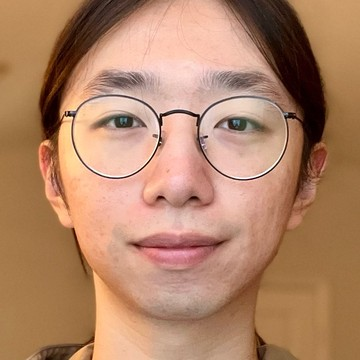
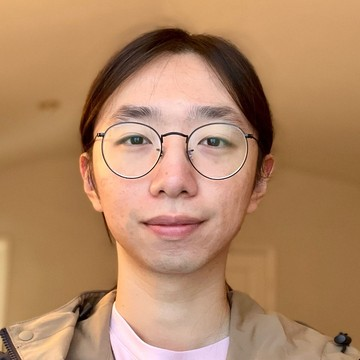
Update Junrui's photo

diff --git a/index.html b/index.html
@@ -105,7 +105,7 @@
 
   <h3>Alumni</h3>
   <ul class="people">
-    <li><a href="https://junrui-liu.github.io/"><img src="photos/junrui_liu.jpg" alt=""><b>Junrui Liu</b>Ph.D. 2021&ndash;2026<br><span class="now">Assistant Professor, Cal Poly</span></a></li>
+    <li><a href="https://junrui-liu.github.io/"><img src="photos/junrui_liu.jpg?v=2" alt=""><b>Junrui Liu</b>Ph.D. 2021&ndash;2026<br><span class="now">Assistant Professor, Cal Poly</span></a></li>
     <li><a href="https://scf.so/"><img src="photos/chaofan_shou.jpg" alt=""><b>Chaofan Shou</b>B.S. 2022&ndash;2023<br><span class="now">Co-founder, Fuzzland and Yeta AI</span></a></li>
     <li><a href="https://www.linkedin.com/in/bryan-tan-08153079/"><img src="photos/bryan_tan.jpg" alt=""><b>Bryan Tan</b>B.S. 2021&ndash;2023<br><span class="now">Compiler Engineer, Amazon</span></a></li>
     <li><a href="https://chyanju.github.io/"><img src="photos/yanju_chen.jpg" alt=""><b>Yanju Chen</b>Ph.D. 2018&ndash;2023<br><span class="now">Postdoc, UC San Diego</span></a></li>
